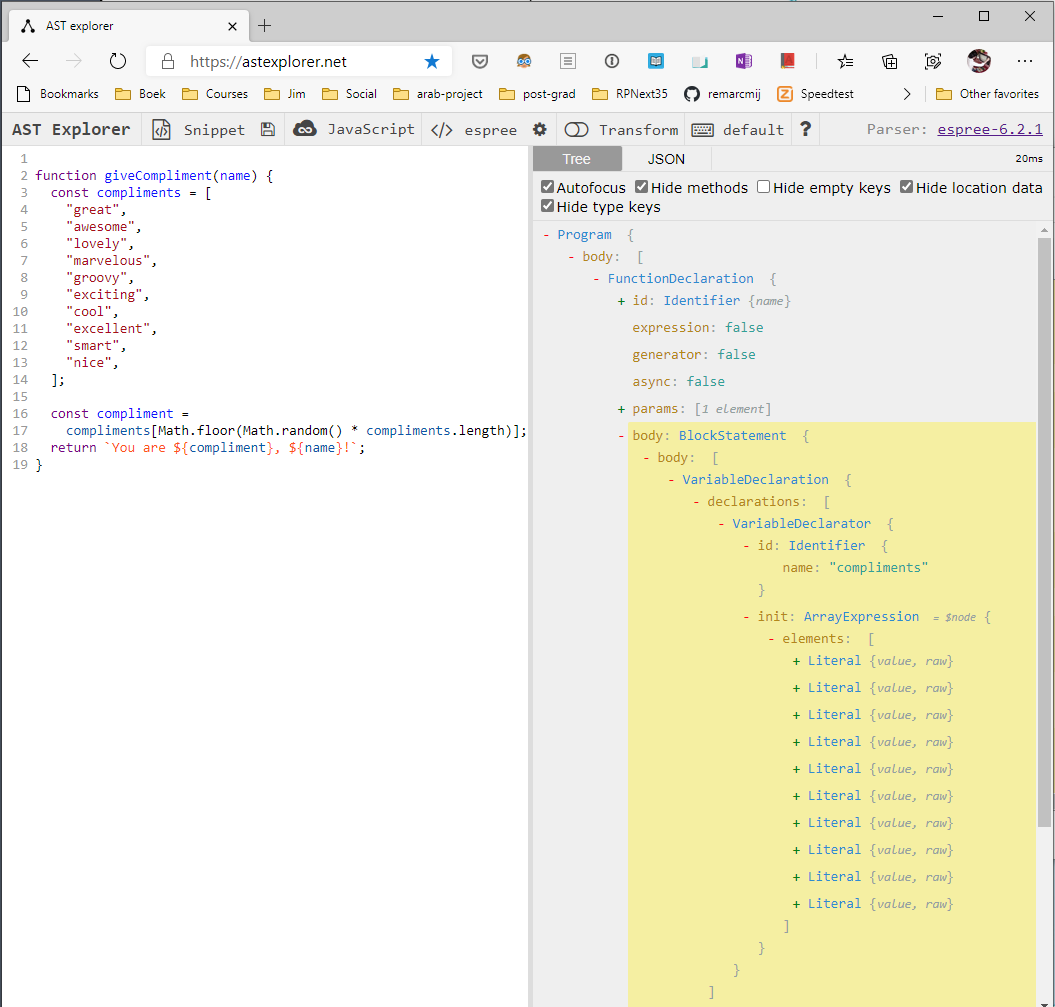
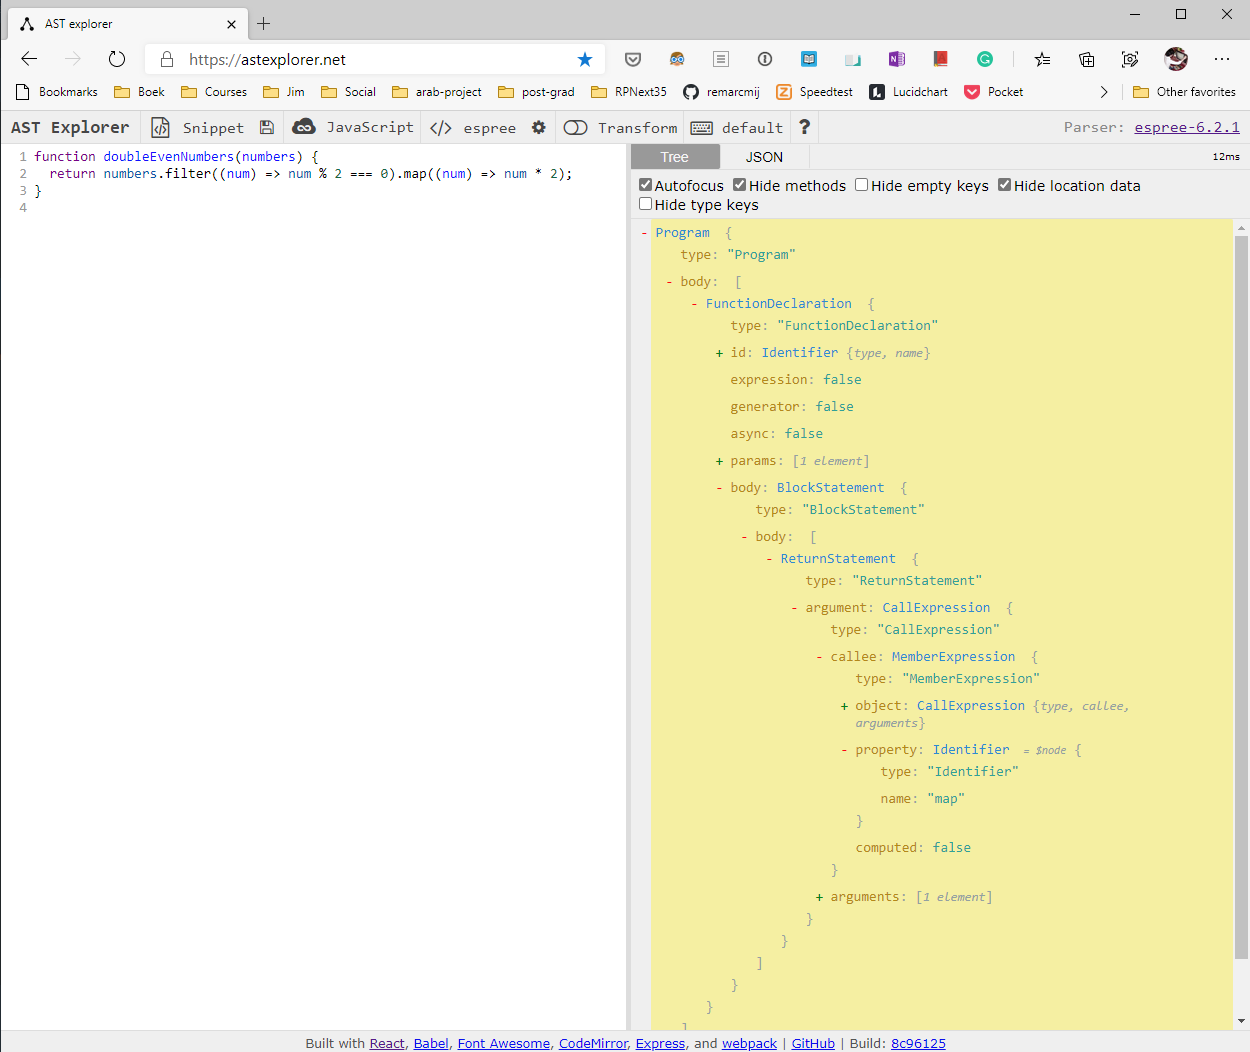
Update test-automation README

diff --git a/test-automation/README.md b/test-automation/README.md
@@ -110,175 +110,90 @@ npm run postinstall
 
 Simple _Node_-based exercises, consisting of a single JavaScript file should include a `module.exports` object at the bottom of the file that exports a function that represents the exercise. For example:
 
-Exercise: `ex5-creditNumberValidator.js`
-
 ```js
-//...
-
-function validateCreditCardNumber(/* argument(s) go here*/) {
-  // add your code here
+function doubleEvenNumbers(numbers) {
+  // TODO: rewrite the function body using `map` and `filter`.
 }
 
-// Do not modify or delete anything below this line
-module.exports = {
-  validateCreditCardNumber,
-};
+// ! Do not change or remove the code below
+module.exports = doubleEvenNumbers;
 ```
 
-The corresponding unit test can `require` this function in order to test it.
-
-Unit test: `ex5-creditNumberValidator.test.js`
+The corresponding unit test can `require` this function in order to test it. Because many exercises in the JavaScript module include calls to `console.log` that we do not want to show up when running a test, the `require` is done dynamically with `console.log` being mocked for the duration of the `require`. This is done through the helper function `beforeAllHelper` in `unit-test-helper.js`. This function also reads the exercise file as text and (optionally) build an AST (Abstract Syntax Tree) to enable code analysis.
 
 ```js
-const {
-  validateCreditCardNumber,
-} = require("../homework/creditNumberValidator");
+describe("doubleEvenNumbers", () => {
+  let doubleEvenNumbers;
+  const state = {};
 
-describe("validateCreditCardNumber", () => {
-  it("should accept 9999777788880000", () => {
-    expect(validateCreditCardNumber("9999777788880000")).toBe(true);
+  beforeAll(() => {
+    const { exports, rootNode } = beforeAllHelper(__filename, {
+      parse: true,
+    });
+    doubleEvenNumbers = exports;
+
+    // ...
   });
-  //...
+
+  // ...
 });
 ```
 
 ### Code Analysis
 
-More sophisticated unit test can use code analysis to inspect the actual code of the exported function. JavaScript provides access to a function's code by calling `.toString()` on the function, e.g.:
+More sophisticated unit test can use code analysis to inspect the actual code of the exported function. For instance, for the `doubleEvenNumber` exercise the `for` loop from the existing (working) code should be replaced with `map` and `filter`. There no way to check this from the runtime context. Here, code analysis can come to the rescue.
+
+First of all (and this goes for exercises to be unit-tested), we must have a working model solution to analyze. For instance:
 
 ```js
-const { giveCompliment } = require("../homework/ex1-giveCompliment");
-
-// ...
-
-const source = giveCompliment.toString();
-```
-
-The `acorn` npm package included in this repo can be used to build an _Abstract Syntax Tree_ (AST) from the function's source code. This AST can then be queried and/or traversed using the included `acorn-walk` package.
-
-To find out which nodes of the AST of a acceptable solution need to be minimally present we can use the online [AST Explorer](https://astexplorer.net/) to examine the AST of a model solution (which of course requires that we create such a module solution in the first place).
-
-#### Exercise Example
-
-**Instructions**
-
-- Write a function named `giveCompliment`.
-  > - It takes 1 argument: your name.
-  >   -Inside the function define a variable that holds an array, `compliments`, with 10 strings.
-  > - Each string should be a compliment, like "great", "awesome".
-  > - Write code that randomly selects a compliment.
-  > - Return a string: "You are `compliment`, `your name`!
-  > - Call the function three times, giving each function call the same argument: your name.
-
-**Model solution**
-
-File: `ex1-giveCompliment.js`
-
-```js
-"use strict";
-
-function giveCompliment(name) {
-  const compliments = [
-    "great",
-    "awesome",
-    "lovely",
-    "marvelous",
-    "groovy",
-    "exciting",
-    "cool",
-    "excellent",
-    "smart",
-    "nice",
-  ];
-
-  const compliment =
-    compliments[Math.floor(Math.random() * compliments.length)];
-  return `You are ${compliment}, ${name}!`;
+function doubleEvenNumbers(numbers) {
+  return numbers.filter((num) => num % 2 === 0).map((num) => num * 2);
 }
-
-console.log(giveCompliment("Nancy"));
-console.log(giveCompliment("Nancy"));
-console.log(giveCompliment("Nancy"));
-
-module.exports = {
-  giveCompliment,
-};
 ```
 
-There are a couple of things we can test here:
+We can use the online [AST Explorer](https://astexplorer.net/) to examine the AST of a model solution. This is illustrated in Figure 1 below. The AST tree is actually a large, hierarchical JavaScript/JSON object that consist of (_ESTree_) "nodes".
 
-1. The function should produce a correctly formatted (random) compliment.
-2. The function should include an array named `compliments` initialized with 10 strings.
-3. Because we expect a randomly selected compliment we expect the `Math.random()` method to be called.
+> See [ESTree Spec](https://github.com/estree/estree). Of most interest are [es5.ms](https://github.com/estree/estree/blob/master/es5.md) and [es2015.md](https://github.com/estree/estree/blob/master/es2015.md).
 
-To inspect the AST for the `giveCompliments` function we can load the function's source code from the module solution in the [AST Explorer](https://astexplorer.net/), shown in the picture below.
-
-Here we can see that we expect the AST to include a `VariableDeclarator` containing an `Identifier` with a `name` of `compliments` and initialized with an `ArrayExpression` containing 10 `'Literal` nodes.
-
-![AST Explorer](./assets/ast-explorer.png)
-
-The AST is simple a large JavaScript object containing a hierarchy of _node_ objects that conform to the [ESTree Spec](https://github.com/estree/estree). Of most interest are [es5.ms](https://github.com/estree/estree/blob/master/es5.md) and [es2015.md](https://github.com/estree/estree/blob/master/es2015.md).
-
-Using this knowledge we can now write a unit test that incorporates code analysis as shown in the listing below.
-
-1. The model solution includes `console.log` statement that we do not wish to appear when running the unit test. For that purpose we can temporarily replace `console.log` with an empty mock implementation before dynamically `require`-ing the exercise file. This is shown in the code fragment below, which also shows how to extract the source code of the exercise function and build an AST from it, using `acorn.parse`.
-
-2. We use `walk.findNodeAfter` to look, starting from the root node, for the presence of a `VariableDeclarator` node with the name `compliments`, initialized with an `ArrayExpression`.
-
-3. To make `Math.random()` predictable, we use a mock implementation that always returns zero. Therefore we expect the exercise function to always use the first element of the `compliments` array. We can retrieve that actual literal value of that element from the AST.
-
-4. We expect `Math.random()` to have been called.
-
-5. The test runner does not display the normal (elaborate and potentially confusing) output from Jest. Instead, by default, only the title of the test (the first argument of the `it` function) is displayed for a failing test. This is accomplished by means of a _Custom Reporter_ (`CustomerReporter.js`). To display custom messages in addition to the test title, the custom reporter looks for a call to `expect` as follows:
-   ```js
-   expect(message).toBe("");
-   ```
-   If the `message` is not the empty string it will be displayed in addition to the title.
-
-File: `ex1-giveCompliment.test.js`
+By expanding and examining the nodes in the AST we can see that we should expect `MemberExpression` nodes with `property.name` of `"map"` and `"filter"` respectively. With this knowledge we can now write some code to "walk" the AST, looking for these `MemberExpression` nodes. (The actual code for this unit test also checks wether `map` and `filter` are used _within_ the scope of `doubleEvenNumbers`.)
 
 ```js
-describe("giveCompliment", () => {
-  let giveCompliment;
-  let rootNode;
+// ...
+let rootNode;
+const state = {};
 
-  beforeAll(() => {
-    const spy = jest.spyOn(console, "log").mockImplementation();
-    ({ giveCompliment } = require("../homework/ex1-giveCompliment"));
-    spy.mockRestore();
-    const source = giveCompliment.toString();
-    rootNode = acorn.parse(source, { ecmaVersion: 2020 });
-  });
+beforeAll(() => {
+  let exports;
+  ({ exports, rootNode } = beforeAllHelper(__filename, {
+    parse: true,
+  }));
+  doubleEvenNumbers = exports;
 
-  //...
-
-  it("should give a random compliment: You are `compliment`, `name`!", () => {
-    const found = walk.findNodeAfter(rootNode, 0, (type, node) => {
-      return (
-        type === "VariableDeclarator" &&
-        node.id.name === "compliments" &&
-        node.init &&
-        node.init.type === "ArrayExpression"
-      );
-    });
-
-    expect(found).toBeDefined();
-
-    const compliments = found.node.init.elements.map((elem) => elem.value);
-    const compliment = compliments[0];
-
-    const mathRandomSpy = jest.spyOn(Math, "random").mockReturnValue(0);
-    const received = giveCompliment("Nancy");
-
-    expect(mathRandomSpy).toHaveBeenCalled();
-    mathRandomSpy.mockRestore();
-
-    const expected = `You are ${compliment}, Nancy!`;
-    const message =
-      received === expected
-        ? ""
-        : `\n  Expected: ${expected}\n  Received: ${received}`;
-    expect(message).toBe("");
+  // Look for `map` and `filter` calls inside the
+  // scope of the `doubleEvenNumber` function
+  walk.simple(rootNode, {
+    MemberExpression({ property }, ancestors) {
+      if (["map", "filter"].includes(property.name)) {
+        state[property.name] = true;
+      }
+    },
   });
 });
 ```
+
+We can now write simple unit tests to check for the mandated existence of `map` and `filter`:
+
+```js
+it("should use `map`", () => {
+  expect(state.map).toBeDefined();
+});
+
+it("should use `filter`", () => {
+  expect(state.filter).toBeDefined();
+});
+```
+
+This completes the code analysis for this exercise example.
+
+![AST Explorer](./assets/ast-explorer.png)
+Figure 1: AST (Abstract Syntax Tree) of the function `doubleEvenNumbers`.
